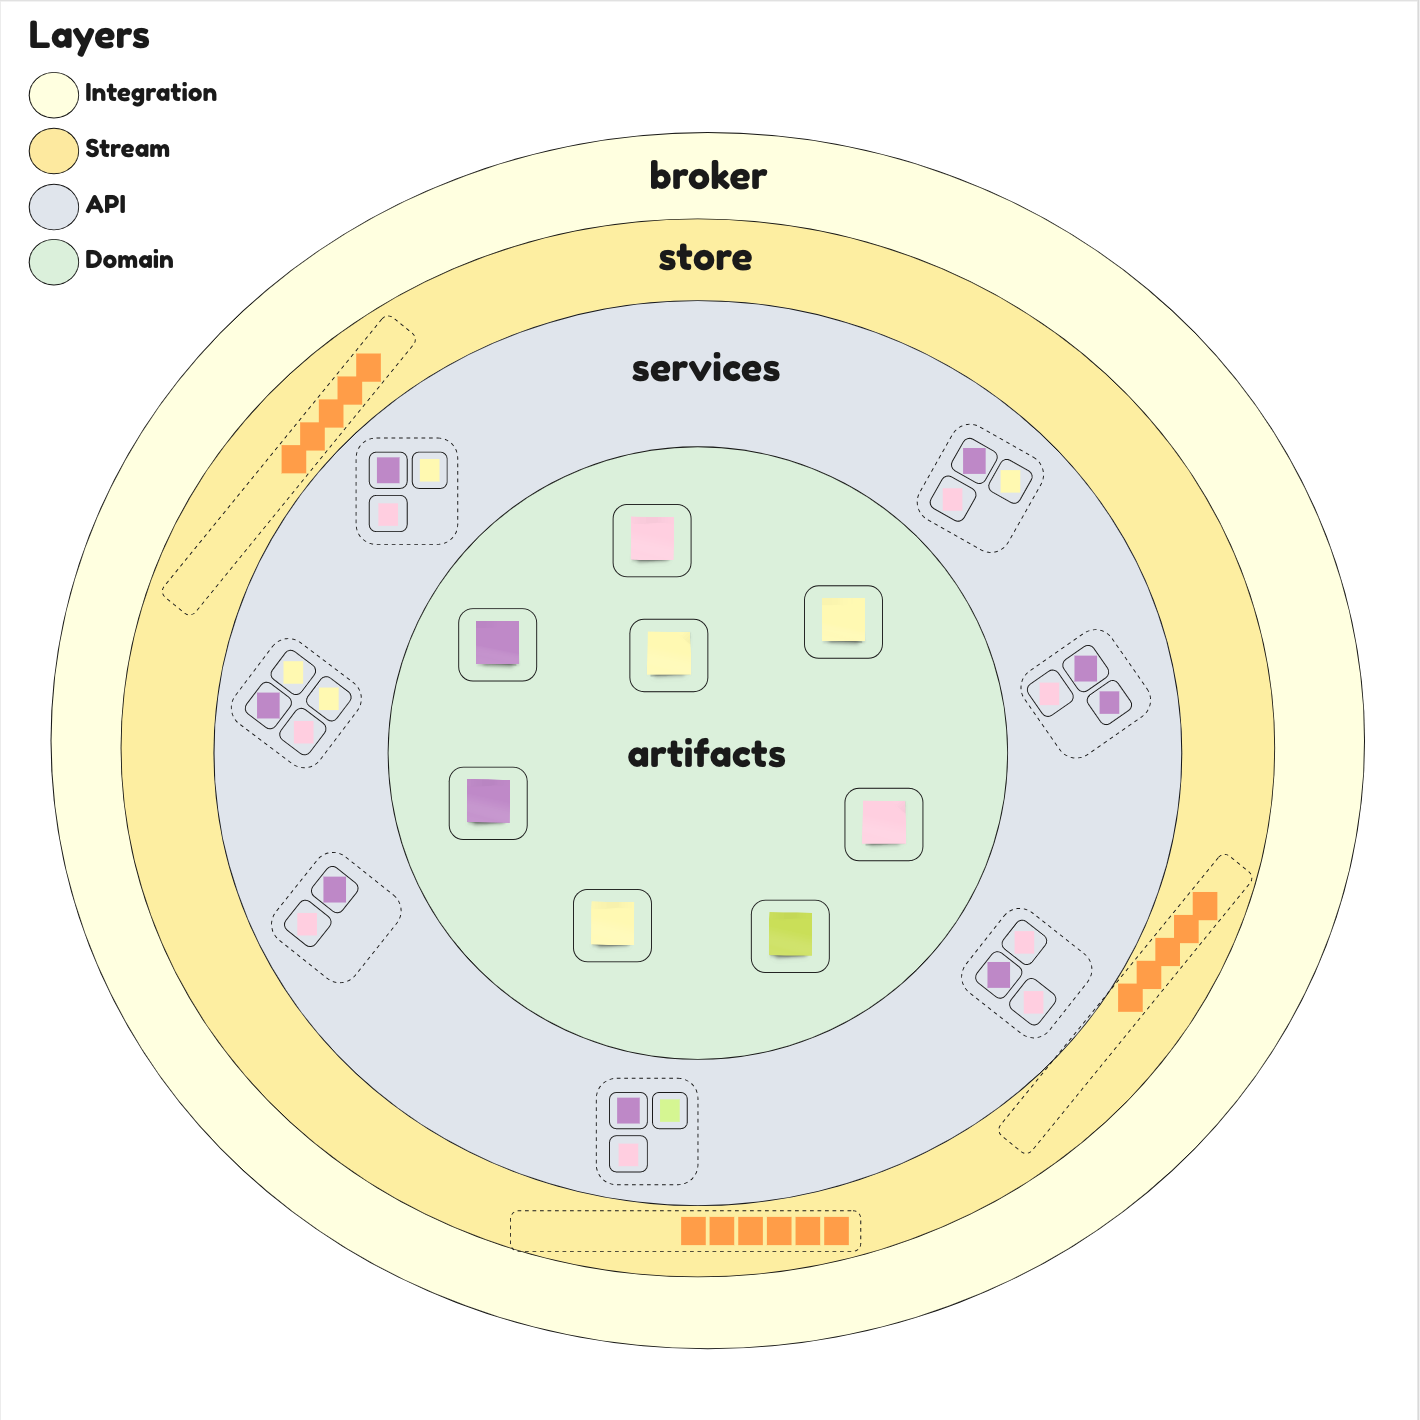
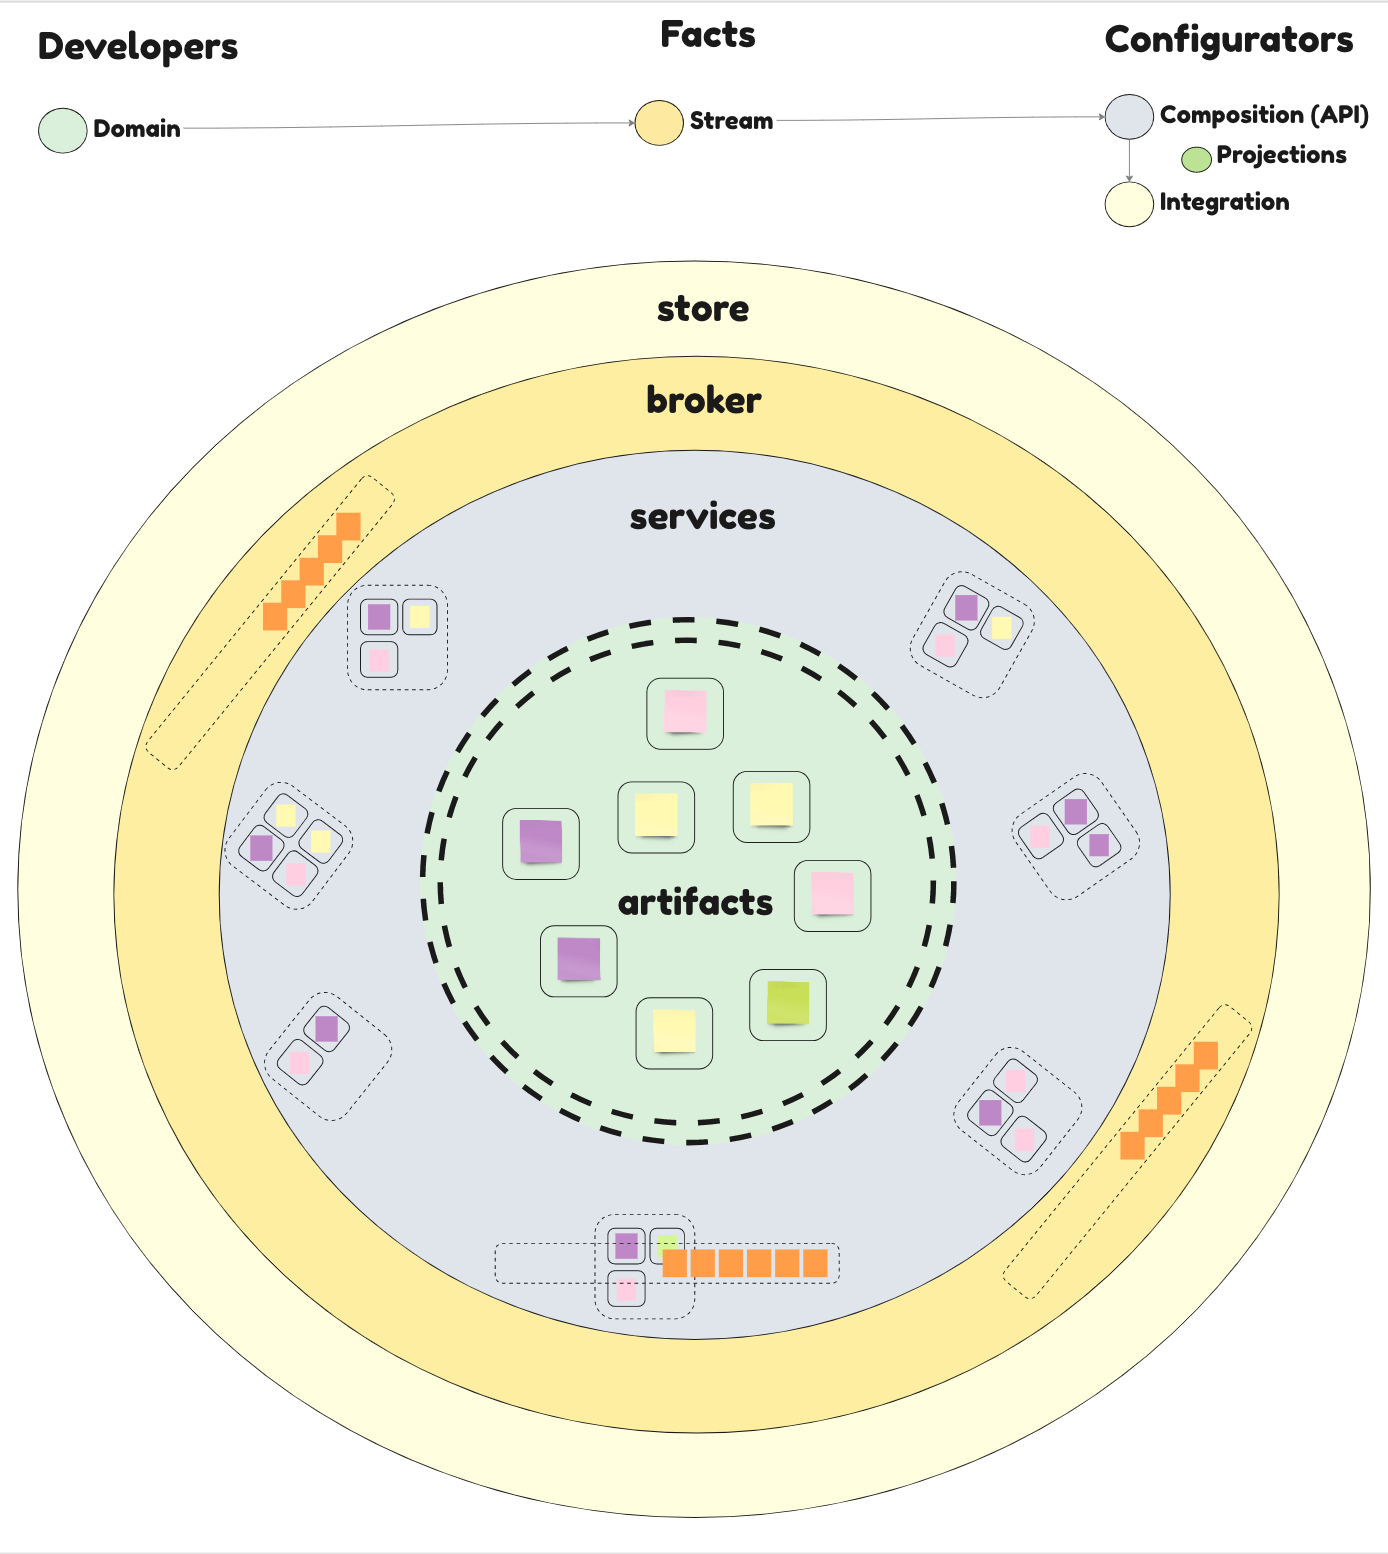
docs: add arch layers to readme

diff --git a/libs/eventually-service-expg/README.md b/libs/eventually-service-expg/README.md
@@ -1,6 +1,17 @@
 # Generic Services
 
-In eventually we can separate core domain artifacts from implementation and configuration details following hexagonal/onion architectural principles. This approach allows us to compose artifact packages in different service level configurations.
+In eventually we try to separate `core domain` concerns from `system` abstractions. This approach allows us the flexibility to compose artifacts in different service-level configurations as the business requirements evolve.
+
+We can have a group of developers focusing on the domain (business rules), and a second group of system engineers and architects (configurators) focusing on the `higher level system abstraction`: How to compose the system today given these artifacts and the facts we are collecting from them? These include:
+
+- Projections
+- Subscriptions
+- Deployment
+- Scalability requirements
+- Competing consumers
+- Stream splitting
+- Concurrent or serialized flows
+- Integration tests
 
 ![Layers](./assets/layers.png)
 

diff --git a/libs/eventually/README.md b/libs/eventually/README.md
@@ -86,6 +86,8 @@ But those pieces live inside domain contexts and physical services. In DDD you b
 
 ![Service Patterns](./assets/broker.png)
 
+> [In eventually we try to separate core domain concerns from system abstractions.](../eventually-service-expg/README.md)
+
 ## Routing conventions
 
 Message handlers are routed by convention. Getters provide the current state of reducible artifacts, and can be used to audit their streams or for integrations via polling. We provide an [in-memory app adapter](./src/__dev__/InMemoryApp.ts) to facilitate integration testing, while the [express app adapter](../eventually-express/src/ExpressApp.ts) is our default REST-based service adapter in real production systems:
